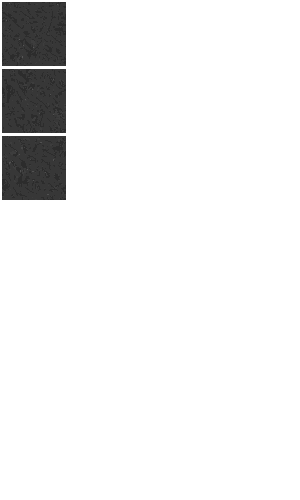
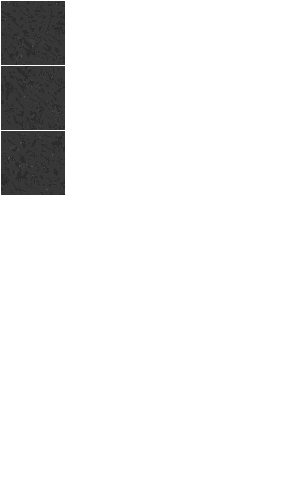
Sprite caching

Changed region(s): [[0.0, 0.0, 0.24, 0.42]]

diff --git a/src/main/world/map/MapRenderer.java b/src/main/world/map/MapRenderer.java
@@ -16,12 +16,10 @@ import java.io.IOException;
 public class MapRenderer implements IDrawable
 {
     private Map map;
-    private static BufferedImage defaultTileTexture;
 
     public MapRenderer(Map map)
     {
         this.map = map;
-        loadDefaultTileTexture();
         GameController.addDrawable(this);
     }
 
@@ -30,41 +28,45 @@ public class MapRenderer implements IDrawable
         return DrawPriority.Map;
     }
 
-    private void loadDefaultTileTexture()
-    {
-        try
-        {
-           // defaultTileTexture = ImageIO.read(new File("resources/DefaultTile.png"));
-            BufferedImage defaultTileTextureSpriteSheett = ImageIO.read(new File("resources/DefaultTile.png"));
-            SpriteSheet defaultTileTextureSpriteSheet = new SpriteSheet(defaultTileTextureSpriteSheett, 64, 64*3);
-            defaultTileTexture = defaultTileTextureSpriteSheet.extractSprite(0, 0);
-
-        } catch (IOException | IllegalArgumentException | NullPointerException e) {
-            System.err.println("Failed to load default tile texture: " + e.getMessage());
-            defaultTileTexture = new BufferedImage(
-                    Tile.getTileSize(), Tile.getTileSize(), BufferedImage.TYPE_INT_ARGB
-            );
-        }
-    }
-
     @Override
     public void draw(Graphics g2) {
         Chunk[][] chunks = map.getChunks();
-        for (Chunk[] chunkRow : chunks) {
-            for (Chunk chunk : chunkRow) {
+        if (chunks == null || chunks.length == 0) return;
+
+        int chunkCountX = chunks.length;
+        int chunkCountY = chunks[0].length;
+        int chunkSize = Chunk.getChunkSize();
+        int tileSize = Tile.getTileSize();
+        Position camPos = GameController.getInstance().getCamera().getPositionToFocus();
+        Chunk cameraChunk = map.getChunk(camPos);
+        int camChunkX = cameraChunk.getxIndex();
+        int camChunkY = cameraChunk.getyIndex();
+
+
+        int renderDistance = Camera.getRenderDistance();
+        int startChunkX = Math.max(0, camChunkX - renderDistance);
+        int startChunkY = Math.max(0, camChunkY - renderDistance);
+        int endChunkX = Math.min(chunkCountX, camChunkX + renderDistance + 1);
+        int endChunkY = Math.min(chunkCountY, camChunkY + renderDistance + 1);
+
+        // draw only chunks within range
+        for (int chunkX = startChunkX; chunkX < endChunkX; chunkX++)
+        {
+            for (int chunkY = startChunkY; chunkY < endChunkY; chunkY++)
+            {
+                Chunk chunk = chunks[chunkX][chunkY];
                 if (chunk == null) continue;
+
                 Tile[][] tiles = chunk.getTiles();
-                for (Tile[] tileRow : tiles) {
-                    for (Tile tile : tileRow) {
+                for (int x = 0; x < chunkSize; x++)
+                {
+                    for (int y = 0; y < chunkSize; y++)
+                    {
+                        Tile tile = tiles[x][y];
                         Position worldPos = tile.getTileWorldPosition();
                         Position screenPos = Camera.toScreenPosition(worldPos);
-                        //System.out.println("Drawing tile at world: " + worldPos + " -> screen: " + screenPos);
-                        g2.drawImage(
-                                defaultTileTexture,
-                                screenPos.getX(), screenPos.getY(),
-                                Tile.getTileSize(), Tile.getTileSize(),
-                                null
-                        );
+                        int drawSize = (int) Math.ceil(tileSize * Camera.getScaleFactor());
+                        g2.drawImage(tile.getSpriteImage(), screenPos.getX(), screenPos.getY(), drawSize, drawSize, null);
                     }
                 }
             }

diff --git a/src/main/utilities/sprite/SpriteSheet.java b/src/main/utilities/sprite/SpriteSheet.java
@@ -14,6 +14,7 @@ public class SpriteSheet
     private static final int SPRITE_OFFSET = 1;
 
     private BufferedImage spriteSheetImage;
+    private Sprite[][] sprites;
     private int textureWidth;
     private int textureHeight;
     private int animationTicks;
@@ -33,6 +34,19 @@ public class SpriteSheet
         this.textureHeight = textureHeight;
         this.animationTicks = countAnimationTicks();
         this.textureVarations = countTextureVariations();
+
+        // Cache all individual sprites
+        sprites = new Sprite[animationTicks][textureVarations];
+        for (int t = 0; t < animationTicks; t++)
+        {
+            for (int v = 0; v < textureVarations; v++)
+            {
+                int startX = SPRITE_OFFSET + t * (textureWidth + SPRITE_PADDING);
+                int startY = SPRITE_OFFSET + v * (textureHeight + SPRITE_PADDING);
+                BufferedImage sub = spriteSheetImage.getSubimage(startX, startY, textureWidth, textureHeight);
+                sprites[t][v] = new Sprite(sub);
+            }
+        }
     }
 
     private int countAnimationTicks()
@@ -95,17 +109,21 @@ public class SpriteSheet
         return false;
     }
 
-    public BufferedImage extractSprite(int tick, int variation)
+    public Sprite extractSprite(int tick, int variation)
     {
-        int startX = SPRITE_OFFSET + tick * (textureWidth + SPRITE_PADDING);
-        int startY = SPRITE_OFFSET + variation * (textureHeight + SPRITE_PADDING);
-        return spriteSheetImage.getSubimage(startX, startY, textureWidth, textureHeight);
+        return sprites[tick][variation];
+    }
+
+    public Sprite extractFirst()
+    {
+        return sprites[0][0];
     }
 
     public static void main(String[] args)
     {
-        String path = "resources/test32x64.png";
-        int texW = 32;
+        //String path = "resources/test32x64.png";
+        String path = "resources/DefaultTile.png";
+        int texW = 64;
         int texH = 64;
 
 
@@ -118,7 +136,7 @@ public class SpriteSheet
                 frame.setDefaultCloseOperation(JFrame.EXIT_ON_CLOSE);
                 frame.setLayout(new BorderLayout());
 
-                JLabel imgLabel = new JLabel(new ImageIcon(sheet.extractSprite(0, 0)));
+                JLabel imgLabel = new JLabel(new ImageIcon(sheet.extractSprite(0, 0).getImage()));
                 imgLabel.setHorizontalAlignment(SwingConstants.CENTER);
                 frame.add(imgLabel, BorderLayout.CENTER);
 
@@ -135,7 +153,7 @@ public class SpriteSheet
 
                 final int[] current = {0, 0}; // [tick, variation]
                 ActionListener updateImage = e -> {
-                    imgLabel.setIcon(new ImageIcon(sheet.extractSprite(current[0], current[1])));
+                    imgLabel.setIcon(new ImageIcon(sheet.extractSprite(current[0], current[1]).getImage()));
                     prevTick.setEnabled(current[0] > 0);
                     nextTick.setEnabled(current[0] < sheet.getAnimationTicks() - 1);
                     prevVar.setEnabled(current[1] > 0);

diff --git a/src/main/world/map/Map.java b/src/main/world/map/Map.java
@@ -41,6 +41,32 @@ public class Map
         }
     }
 
+    public Chunk getChunk(int worldX, int worldY)
+    {
+        int chunkPixelSize = Chunk.getChunkSize() * Tile.getTileSize();
+
+        // aligning to the middle of the map
+        int halfMapWidthInPixels = (chunks.length / 2) * chunkPixelSize;
+        int halfMapHeightInPixels = (chunks[0].length / 2) * chunkPixelSize;
+        int adjustedX = worldX + halfMapWidthInPixels;
+        int adjustedY = worldY + halfMapHeightInPixels;
+
+        int chunkX = adjustedX / chunkPixelSize;
+        int chunkY = adjustedY / chunkPixelSize;
+
+        if (adjustedX < 0) chunkX--;
+        if (adjustedY < 0) chunkY--;
+
+        if (chunkX < 0 || chunkX >= chunks.length || chunkY < 0 || chunkY >= chunks[0].length)
+        {
+
+            throw new IndexOutOfBoundsException("Position out of map: (" + worldX + ", " + worldY + ")");
+        }
+        return chunks[chunkX][chunkY];
+    }
+    public Chunk getChunk(Position worldPosition) {return getChunk(worldPosition.getX(), worldPosition.getY());}
+    public Chunk getChunkByIndex(int chunkX, int chunkY) {return chunks[chunkX][chunkY];}
+
 
     private void createChunks(short[][] tileMapIDValues)
     {
@@ -72,7 +98,7 @@ public class Map
                             tiles[tx][ty] = new Tile(centered, TileID.DEFAULT);
                         }
                     }
-                    chunks[chunkX][chunkY] = new Chunk(tiles);
+                    chunks[chunkX][chunkY] = new Chunk(tiles, chunkX, chunkY);
                 });
             }
         }

diff --git a/src/main/GameController.java b/src/main/GameController.java
@@ -7,6 +7,7 @@ import main.entity.player.Player;
 import main.userInput.KeyHandler;
 import main.userInput.MouseHandler;
 import main.world.map.MapManager;
+import main.world.map.TileManager;
 import main.world.worldGeneration.MapGenerator;
 
 import javax.swing.*;
@@ -37,6 +38,7 @@ public class GameController extends JPanel implements Runnable
     public static Entity getPlayer() {return player;}
     //public static MapGenerator getMapGenerator() {return mapGenerator;}
     public static MapManager getMapManager() {return mapManager;}
+    public static Camera getCamera() {return camera;}
 
     public static void addUpdatable(IUpdatable updatable) {updatables.add(updatable);}
     public static void addDrawable(IDrawable drawable) {drawables.add(drawable);}
@@ -55,6 +57,7 @@ public class GameController extends JPanel implements Runnable
     private static Camera camera;
     //private static MapGenerator mapGenerator;
     private static MapManager mapManager;
+    private static TileManager tileManager;
 
 
     private GameController()
@@ -78,6 +81,7 @@ public class GameController extends JPanel implements Runnable
             camera = new Camera();
             //mapGenerator = new MapGenerator();
             mapManager = new MapManager();
+            tileManager = new TileManager();
         }
         return instance;
     }

diff --git a/src/main/world/map/TileManager.java b/src/main/world/map/TileManager.java
@@ -1,7 +1,37 @@
 package main.world.map;
 
+import main.utilities.sprite.Sprite;
+import main.utilities.sprite.SpriteSheet;
+
+import javax.imageio.ImageIO;
+import java.io.File;
+import java.io.IOException;
+import java.util.HashMap;
+
 public class TileManager
 {
+    private static HashMap<TileID, SpriteSheet> tileSpriteSheets;
+
+
+    public TileManager()
+    {
+        tileSpriteSheets = new HashMap<>();
+        loadTiles();
+    }
+
+    private void loadTiles()
+    {
+        try
+        {
+            tileSpriteSheets.put(TileID.DEFAULT, new SpriteSheet(ImageIO.read(new File("resources/DefaultTile.png")), 64, 64));
+        }
+        catch (IOException e)
+        {
+            throw new RuntimeException("Cannot load tile spritesheet: ", e);
+        }
+    }
+
+
     public static int getHealthByID(TileID ID)
     {
         switch(ID)
@@ -9,5 +39,10 @@ public class TileManager
             case DEFAULT: return Integer.MAX_VALUE;
             default: return 0;
         }
+    }
+
+    public static SpriteSheet getSpriteSheetByID(TileID tileID)
+    {
+        return tileSpriteSheets.get(tileID);
     }
 }

diff --git a/src/main/camera/Camera.java b/src/main/camera/Camera.java
@@ -7,7 +7,9 @@ import main.utilities.Position;
 public class Camera
 {
     private CameraUpdater cameraUpdater;
-    private static double scaleFactor = 1;
+    private static double scaleFactor = 1f;
+    private static int renderDistance = 1;              // TODO: implement calculating render dist
+    private static int simulationDistance = 999;        // TODO: implement logic for simulation distance
     private static Position positionToFocus;
 
     public CameraUpdater getCameraUpdater() { return cameraUpdater; }
@@ -15,6 +17,8 @@ public class Camera
     public static void increaseScaleFactor() {scaleFactor += 0.05f;}
     public static void decreaseScaleFactor() {scaleFactor -= 0.05f;}
     public Position getPositionToFocus() { return positionToFocus; }
+    public static int getRenderDistance() {return renderDistance;}
+    public static int getSimulationDistance() {return simulationDistance;}
 
     public Camera()
     {

diff --git a/src/main/world/map/Tile.java b/src/main/world/map/Tile.java
@@ -1,6 +1,10 @@
 package main.world.map;
 
 import main.utilities.Position;
+import main.utilities.sprite.Sprite;
+import main.utilities.sprite.SpriteSheet;
+
+import java.awt.image.BufferedImage;
 
 public class Tile
 {
@@ -13,6 +17,12 @@ public class Tile
     public Position getTileWorldPosition() {return tileWorldPosition;}
     public int getHealth() {return health;}
     public static int getTileSize() {return tileSize;}
+    public SpriteSheet getSpriteSheet()
+    {
+        return TileManager.getSpriteSheetByID(this.ID);
+    }
+    public Sprite getSprite() {return TileManager.getSpriteSheetByID(this.ID).extractFirst();}
+    public BufferedImage getSpriteImage() {return TileManager.getSpriteSheetByID(this.ID).extractFirst().getImage();}
 
     public Tile(Position tileWorldPosition, TileID tileID)
     {

diff --git a/src/main/world/map/Chunk.java b/src/main/world/map/Chunk.java
@@ -7,15 +7,21 @@ public class Chunk
     private static final int chunkSize = 8;
     private Tile[][] tiles;
     private Position chunkWorldPosition;
+    private int xIndex;
+    private int yIndex;
 
     public Tile[][] getTiles() {return tiles;}
     public Position getChunkWorldPosition() {return chunkWorldPosition;}
+    public int getxIndex() {return xIndex;}
+    public int getyIndex() {return yIndex;}
 
     public static int getChunkSize() {return chunkSize;}
 
-    public Chunk(Tile[][] tiles)
+    public Chunk(Tile[][] tiles, int xIndex, int yIndex)
     {
         this.tiles = tiles;
+        this.xIndex = xIndex;
+        this.yIndex = yIndex;
         chunkWorldPosition = tiles[0][0].getTileWorldPosition();
     }
 }

diff --git a/src/main/entity/player/PlayerUpdater.java b/src/main/entity/player/PlayerUpdater.java
@@ -19,9 +19,9 @@ public class PlayerUpdater extends EntityUpdater
 
         Position pos = entity.getWorldPosition();
 
-        if (KeyHandler.isW_PRESSED()) pos.setY(pos.getY() - 1);
-        if (KeyHandler.isA_PRESSED()) pos.setX(pos.getX() - 1);
-        if (KeyHandler.isS_PRESSED()) pos.setY(pos.getY() + 1);
-        if (KeyHandler.isD_PRESSED()) pos.setX(pos.getX() + 1);
+        if (KeyHandler.isW_PRESSED()) pos.setY(pos.getY() - 10);
+        if (KeyHandler.isA_PRESSED()) pos.setX(pos.getX() - 10);
+        if (KeyHandler.isS_PRESSED()) pos.setY(pos.getY() + 10);
+        if (KeyHandler.isD_PRESSED()) pos.setX(pos.getX() + 10);
     }
 }

diff --git a/src/main/utilities/DrawPriority.java b/src/main/utilities/DrawPriority.java
@@ -6,7 +6,7 @@ public enum DrawPriority
     One(1),
     Two(2),
     Entity(3),
-    Map(4);
+    Map(2);
 
     public final int value;
 
